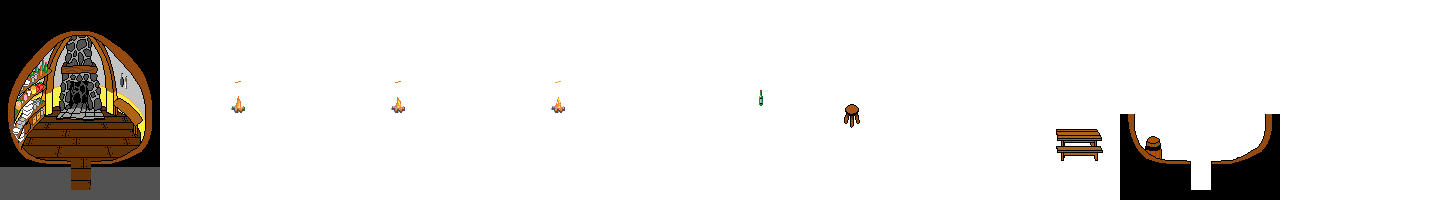
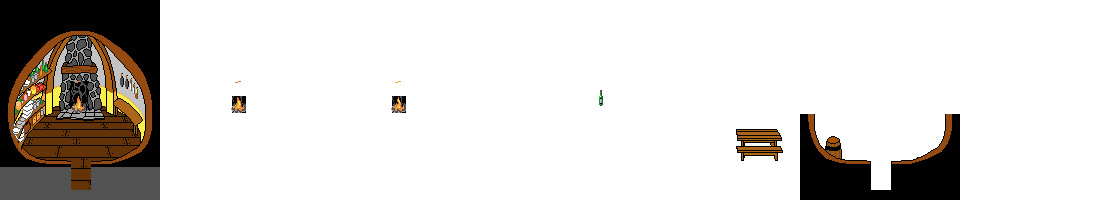
Stool physics.

diff --git a/frodos-quest/core/src/main/java/frodo/core/Sprites.java b/frodos-quest/core/src/main/java/frodo/core/Sprites.java
@@ -10,12 +10,14 @@ public final class Sprites {
   public static FrodoSprite FRODO = new FrodoSprite();  
   public static AnimalSprite GOAT = new AnimalSprite();
   public static GooseSprite GOOSE = new GooseSprite();
+  public static StaticSprite STOOL = new StaticSprite(100, 130);
   
   public static Sprite[] ALL = new Sprite[] {
-    FRODO, GOAT, GOOSE,
+    FRODO, GOAT, GOOSE, STOOL,
   };
   
   public static Sprite[] NONE = new Sprite[] {};
+  public static Sprite[] STOOL_1 = new Sprite[] { STOOL };
   
   public static Image[] FRODO_LARGE;
   public static Image[] FRODO_SMALL;
@@ -27,12 +29,14 @@ public final class Sprites {
   private static Image FRODO_SMALL_RAW;
   private static Image GOAT_RAW;
   private static Image GOOSE_RAW;
+  private static Image STOOL_RAW;
   
   public static void startLoading() {
     FRODO_LARGE_RAW = Image.load("frodo_large.png");
     FRODO_SMALL_RAW = Image.load("frodo_small.png");
     GOAT_RAW = Image.load("goat.png");
     GOOSE_RAW = Image.load("goose.png");
+    STOOL_RAW = Image.load("stool.png");
   }
   
   public static void finishLoading() {
@@ -45,6 +49,7 @@ public final class Sprites {
     FRODO.init(FRODO_LARGE);
     GOAT.init(GOAT_TILES);
     GOOSE.init(GOOSE_TILES);
+    STOOL.init(scaleSprite(STOOL_RAW));
   }
   
   private static Image scaleSprite(Image image) {

diff --git a/frodos-quest/core/src/main/java/frodo/core/Scene.java b/frodos-quest/core/src/main/java/frodo/core/Scene.java
@@ -63,16 +63,18 @@ public enum Scene {
     Layer background = addLayer(Z.BACKGROUND);
     Layer fire1 = addLayer(Z.BACKGROUND, Animations.cycle(1, 3).withDuration(4));
     Layer fire2 = addLayer(Z.BACKGROUND, Animations.cycle(2, 3).withDuration(4));
-    Layer fire3 = addLayer(Z.BACKGROUND, Animations.cycle(3, 3).withDuration(4));
     Layer bottle = addLayer(Z.BACKGROUND);
-    Layer stool = addLayer(Z.AUTO);
     Layer table = addLayer(Z.AUTO);
     Layer foreground = addLayer(Z.FOREGROUND);
     Layer maskLayer = addMaskLayer(this);
     
     public void update(State state) {
-      showIf(!state.has(STOOL), stool);
       showIf(!state.has(OLIVE_OIL), bottle);
+    }
+    
+    @Override
+    public Sprite[] sprites(State state) {
+      return !state.has(STOOL) ? Sprites.STOOL_1 : Sprites.NONE;
     }
   },
   
@@ -89,7 +91,8 @@ public enum Scene {
     Layer foreground = addLayer(Z.FOREGROUND);
     Layer maskLayer = addMaskLayer(this);
     
-    public Sprite[] sprites() {
+    @Override
+    public Sprite[] sprites(State state) {
       return new Sprite[] { Sprites.GOOSE };
     }
   },
@@ -182,7 +185,7 @@ public enum Scene {
     // nothing needed.  
   }
   
-  public Sprite[] sprites() {
+  public Sprite[] sprites(State state) {
     return Sprites.NONE;
   }
   

diff --git a/frodos-quest/core/src/main/java/frodo/core/Title.java b/frodos-quest/core/src/main/java/frodo/core/Title.java
@@ -65,7 +65,17 @@ public class Title {
     eventManager.add(new PauseEvent(Events.UNINTERACTIVE, 2));
     eventManager.add(new DisplayTextEvent("You have just gotten out of bed. You hear Bilbo call from the hallway \"Frodo! There's a letter for you!\""));
     eventManager.add(new QueuedUpcomingEvent(new LocationEvent(Location.BAGEND_HILL, false, new MusicEvent(CONCERNING_HOBBITS))));
-  } 
+  }
+  
+  public void skipFinish() {
+    Loader.stopAllMusic();
+    EventManager eventManager = FrodosQuest.eventManager;
+    eventManager.add(new CutSceneEvent(Location.FRODOS_ROOM));
+    eventManager.add(new CutSceneEvent(Location.FRODOS_ROOM));
+    eventManager.add(new ShowSpriteEvent(Sprites.FRODO, true));
+    eventManager.add(new DisplayTextEvent("You have just gotten out of bed. You hear Bilbo call from the hallway \"Frodo! There's a letter for you!\""));
+    eventManager.add(new QueuedUpcomingEvent(new LocationEvent(Location.BAGEND_HILL, false, new MusicEvent(CONCERNING_HOBBITS))));
+  }
   
   public boolean done() {
     return done;
@@ -119,7 +129,7 @@ public class Title {
   public void skip() {
     if (loadingFinished && !done) {
       ONE_RING_INTRO.stop();
-      finish();
+      skipFinish();
       done = true;
     }
   }

diff --git a/frodos-quest/core/src/main/java/frodo/core/SceneRenderer.java b/frodos-quest/core/src/main/java/frodo/core/SceneRenderer.java
@@ -7,30 +7,18 @@ import java.util.Arrays;
 public class SceneRenderer {
 
   public Scene scene;
+  public Sprite[] sceneSprites = Sprites.NONE;
   
   public void update(State state) {
-    Scene newScene = Scene.forLocation(state.location);
-    if (newScene != scene) {
-      setScene(newScene);
-    }
+    this.scene = Scene.forLocation(state.location);
+    setVisible(sceneSprites, false);
+    this.sceneSprites = scene.sprites(state);
+    setVisible(sceneSprites, true);
 
     scene.update(state);
     for (Sprite sprite : Sprites.ALL) {
       sprite.update(state);
     }
-  }
-  
-  public void setScene(Scene newScene) {
-    Scene oldScene = this.scene;
-    if (oldScene != null) {
-      for (Sprite sprite : oldScene.sprites()) {
-        sprite.visible = false;
-      }
-    }
-    for (Sprite sprite : newScene.sprites()) {
-      sprite.visible = true;
-    }
-    this.scene = newScene;
   }
   
   public void move() {
@@ -61,6 +49,12 @@ public class SceneRenderer {
     }
     
     surface.translate(0, -HEADER_Y);
+  }
+  
+  private static void setVisible(Sprite[] sprites, boolean visible) {
+    for (Sprite sprite : sprites) {
+      sprite.visible = visible;
+    }
   }
   
   private int spriteZ(int spriteIndex) {

diff --git a/frodos-quest/core/src/main/java/frodo/core/FrodoSprite.java b/frodos-quest/core/src/main/java/frodo/core/FrodoSprite.java
@@ -11,6 +11,7 @@ public class FrodoSprite extends Sprite {
   
   private int drunkenness = 0;
   private int staggerTimer = 0;  
+  private boolean standingOnStool = false;
   
   @Override
   public void move(Scene scene) {
@@ -30,7 +31,15 @@ public class FrodoSprite extends Sprite {
         moveDrunkenly(scene.mask, direction);
       }
       touchingSpecial = Pixels.isNonWhite(scene.mask.pixelOnce(x, y));
+      standingOnStool = isCloseTo(Sprites.STOOL, 4);
     }
+  }
+  
+  @Override
+  public void draw(Surface surface, int frame) {
+    if (standingOnStool) y -= 20;
+    super.draw(surface, frame);
+    if (standingOnStool) y += 20;
   }
   
   public void drinkAlcohol() {

diff --git a/frodos-quest/core/src/main/java/frodo/core/StaticSprite.java b/frodos-quest/core/src/main/java/frodo/core/StaticSprite.java
@@ -1,0 +1,23 @@
+package frodo.core;
+
+import static frodo.core.Direction.NUM_DIRECTIONS;
+import static frodo.core.PixelConstants.*;
+
+public class StaticSprite extends Sprite {
+  
+  public StaticSprite() {}
+  
+  public StaticSprite(int x, int y) {
+    this.x = x;
+    this.y = y;
+  }
+    
+  public void update(State state) {}
+
+  public void move(Scene scene) {}
+  
+  public void init(Image image) {
+    this.image = image;
+    this.images = new Image[] { image };
+  }
+}

diff --git a/frodos-quest/core/src/main/java/frodo/core/Sprite.java b/frodos-quest/core/src/main/java/frodo/core/Sprite.java
@@ -64,7 +64,8 @@ public abstract class Sprite {
   }
     
   public boolean isCloseTo(Sprite that, int px) {
-    return Math.abs(that.x - this.x) <= (px * SCENE_X_ZOOM)
+    return that.visible
+        && Math.abs(that.x - this.x) <= (px * SCENE_X_ZOOM)
         && Math.abs(that.y - this.y) <= (px * SCENE_Y_ZOOM);
   }
 }
